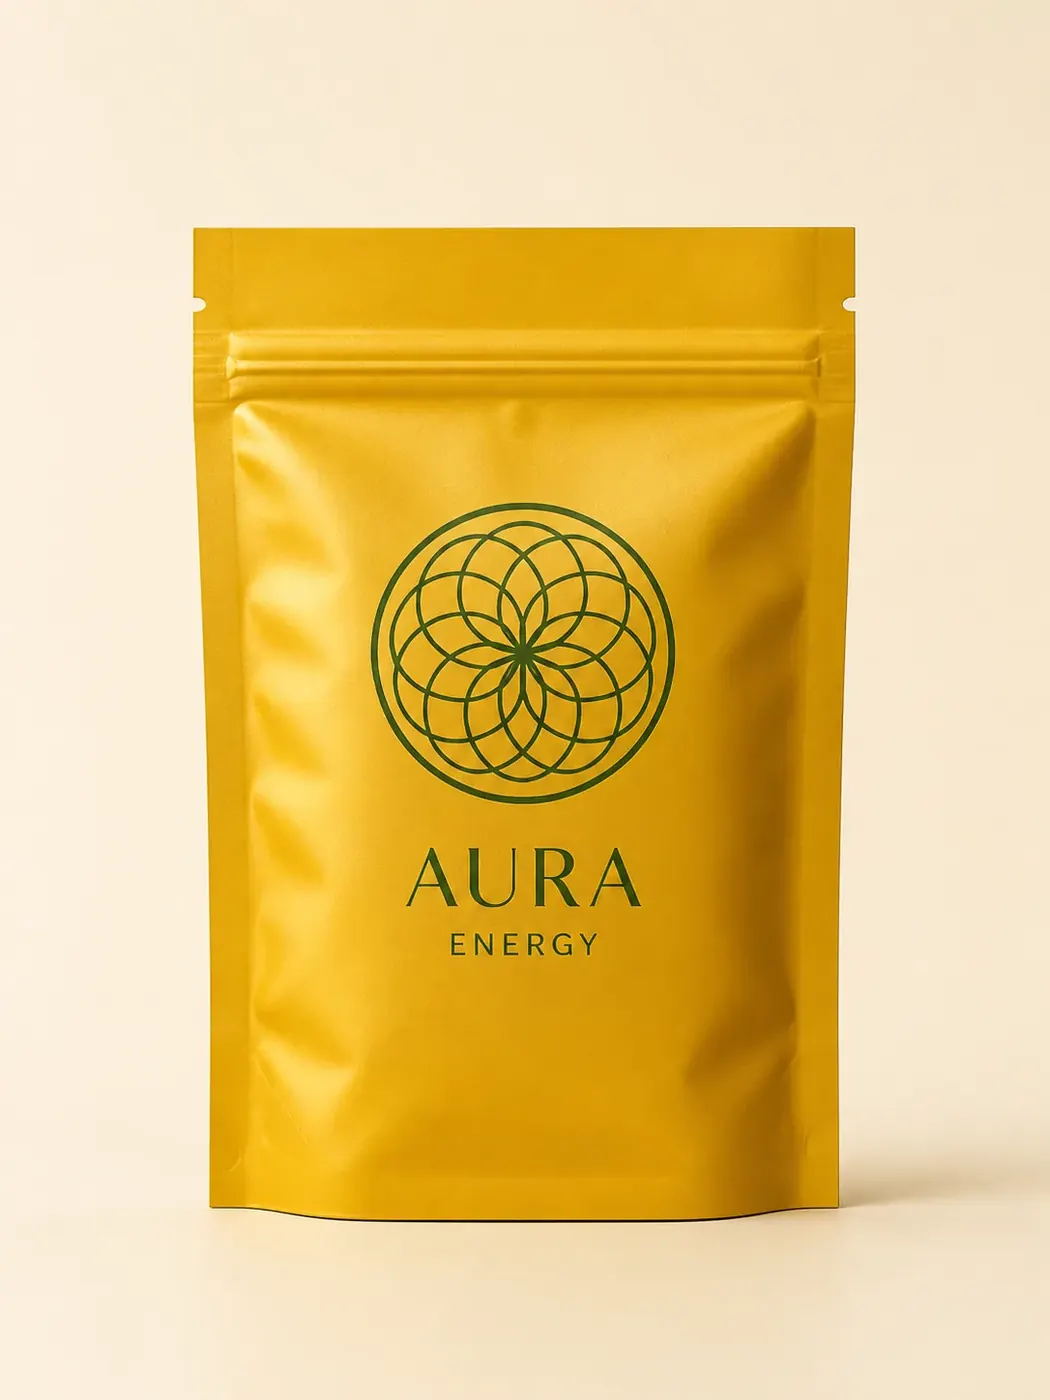
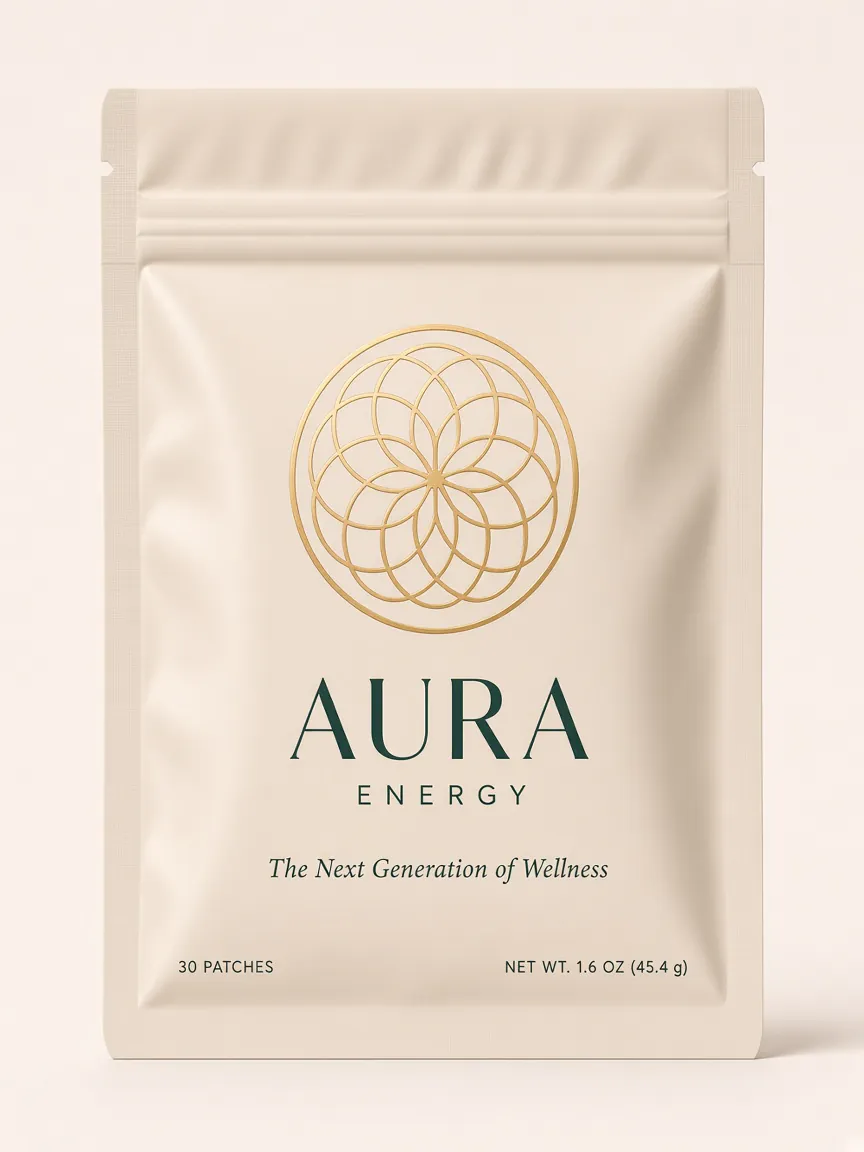
Refresh line packaging photos so Patch, Restore, and Energy share one lockup.
Compress each pouch to WebP and JPEG for faster LCP and Open Graph use, and show the full packshot instead of cropping it.

diff --git a/apps/storefront/src/modules/home/components/hero/index.tsx b/apps/storefront/src/modules/home/components/hero/index.tsx
@@ -250,12 +250,14 @@ const Hero = ({ product }: HeroProps) => {
               description: "A considered reset for replenishment and restoration.",
               image: "/images/aura-restore-coming-soon.webp",
               background: "bg-[#e4e8d8]",
+              imageClass: "object-contain p-8 mix-blend-multiply",
             },
             {
               name: "Aura Energy",
               description: "A brighter ritual created for momentum and focus.",
               image: "/images/aura-energy-coming-soon.webp",
-              background: "bg-[#f3dfaa]",
+              background: "bg-[#f4eee3]",
+              imageClass: "object-contain p-8 mix-blend-multiply",
             },
           ].map((item) => (
             <article key={item.name} className={`${item.background} overflow-hidden rounded-[2rem]`}>
@@ -267,7 +269,7 @@ const Hero = ({ product }: HeroProps) => {
                   src={item.image}
                   alt={`${item.name} pouch, coming soon`}
                   fill
-                  className="object-cover object-center transition-transform duration-700 hover:scale-[1.02]"
+                  className={`${item.imageClass} transition-transform duration-700 hover:scale-[1.02]`}
                   sizes="(max-width: 1024px) 100vw, 50vw"
                 />
               </div>

diff --git a/apps/storefront/src/modules/home/components/ingredients-showcase/index.tsx b/apps/storefront/src/modules/home/components/ingredients-showcase/index.tsx
@@ -46,11 +46,11 @@ const IngredientsShowcase = () => (
       </div>
 
       <div className="mt-14 space-y-6">
-        {products.map((product, productIndex) => (
+        {products.map((product) => (
           <article key={product.name} className="overflow-hidden rounded-[1.75rem] border border-aura-cream/15 bg-[#1a4d42]">
             <div className="grid small:grid-cols-[0.72fr_1.28fr]">
               <div className="relative min-h-[390px] overflow-hidden bg-[#f5f0e5] small:min-h-[540px]">
-                <Image src={product.image} alt={`${product.name} pouch`} fill className={productIndex === 0 ? "object-contain mix-blend-multiply" : "object-cover"} sizes="(max-width: 1023px) 100vw, 38vw" />
+                <Image src={product.image} alt={`${product.name} 30-day pouch`} fill className="object-contain mix-blend-multiply p-8" sizes="(max-width: 1023px) 100vw, 38vw" />
                 <span className="absolute left-5 top-5 rounded-full bg-aura-forest/90 px-4 py-2 text-[10px] font-semibold uppercase tracking-[0.16em] text-aura-cream backdrop-blur">{product.status}</span>
               </div>
               <div className="p-6 small:p-9 medium:p-11">
